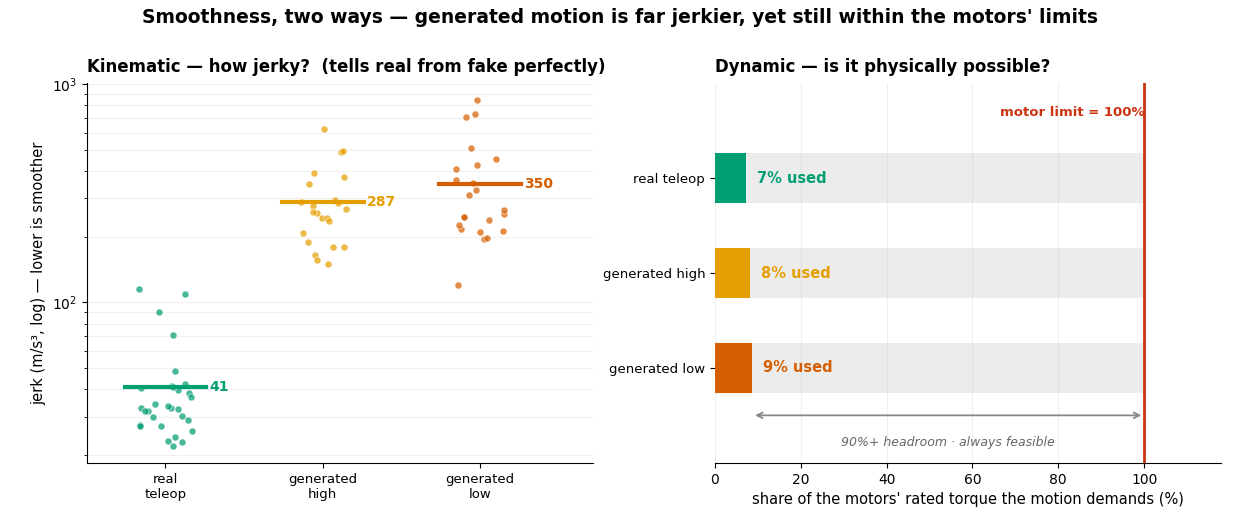
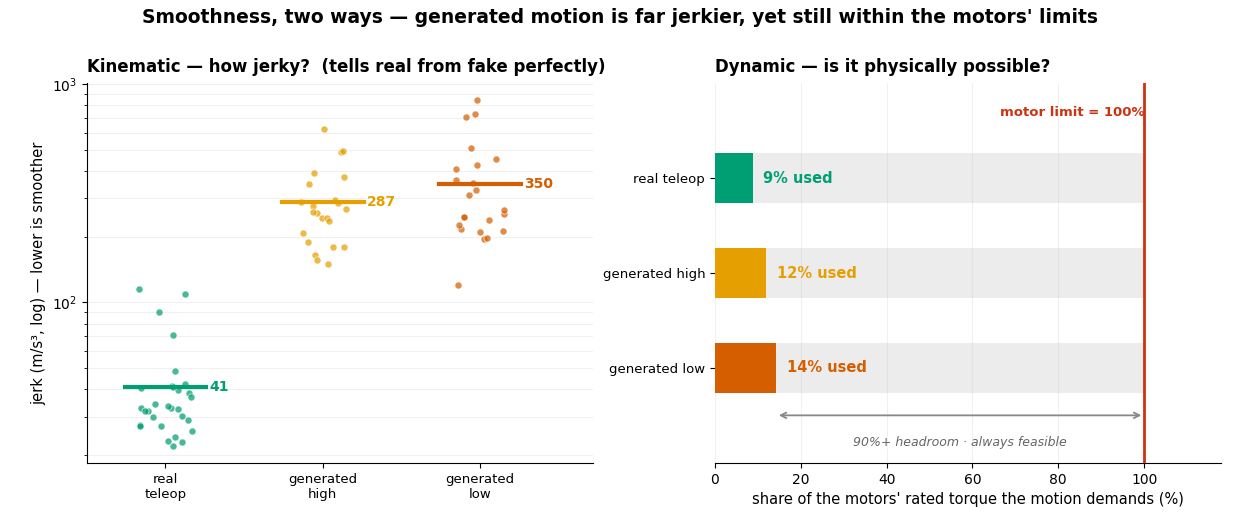
Exp7: high-vs-low same-task comparison + one consistent torque statistic
Replace the single-clip demo with a same-task high-tier vs low-tier comparison
(two videos + a trace): low tier is visibly jerkier and the torque number ranks
it above high, both feasible — showing the measurement tracks perception, not
that generation is impossible.

Fix the statistic inconsistency the review flagged: torque is now ONE definition
everywhere — the most-loaded joint per frame (envelope), robust p98. Numbers
reconcile: real ~9%, generated ~12-14%, jerkiest clip ~27% (all < 100% limit);
separation AUC rises to 0.84. Soften "perfectly" -> "cleanly (peak jerk)".
Architecture caption/stage-4 wording: geometry -> geometry & dynamics, add torque.
Drop the now-unused single-clip trace asset.

Claude-Session: https://claude.ai/code/session_01SzifmUYCQF5e864NwWcDT4

diff --git a/index.html b/index.html
@@ -84,7 +84,7 @@
   <p class="kicker">How it works</p>
   <h2>From pixels to a physical verdict, in four steps</h2>
   <p class="wide-lede">The reader is not a generic pose network bolted on after the fact &mdash; it is <b>built around the robot's own kinematic model</b>. Every output maps to a specific degree of freedom in the URDF (the left arm, the right arm, the waist), and each one is given <b>its own attention over the image</b>, so the reader looks at the body part that joint actually controls. The physics checks downstream therefore rest on a pose read the way the robot is really built.</p>
-  <figure class="fig"><img src="assets/figures/fig1_architecture.png" alt="" loading="lazy"><figcaption>The full method: an attention-based reader turns each frame into joint angles and a confidence, then those angles drive the robot&rsquo;s real CAD model, where every physical rule is a geometric measurement.<span class="howto"><b>How to read this.</b> Top half &mdash; reading the pose: a frozen vision model turns the frame into patches, then a set of learned attention maps &mdash; <b>one per robot degree of freedom, following the URDF's own left-arm / right-arm / waist layout</b> &mdash; each focus on the body part that joint controls, and two outputs emerge: the joint angles and how confident the reader is. Bottom half &mdash; checking the physics: those angles pose the robot&rsquo;s real 3-D model, and every rule (parts overlapping, balance over the feet, joint limits, limb length, smoothness) is read straight off the geometry.</span></figcaption></figure>
+  <figure class="fig"><img src="assets/figures/fig1_architecture.png" alt="" loading="lazy"><figcaption>The full method: an attention-based reader turns each frame into joint angles and a confidence, then those angles drive the robot&rsquo;s real CAD model, where every physical rule is a physical measurement on the robot itself.<span class="howto"><b>How to read this.</b> Top half &mdash; reading the pose: a frozen vision model turns the frame into patches, then a set of learned attention maps &mdash; <b>one per robot degree of freedom, following the URDF's own left-arm / right-arm / waist layout</b> &mdash; each focus on the body part that joint controls, and two outputs emerge: the joint angles and how confident the reader is. Bottom half &mdash; checking the physics: those angles pose the robot&rsquo;s real 3-D model, and every rule (parts overlapping, balance over the feet, joint limits, limb length, smoothness, and the motor torque the motion would need) is read straight off the robot's own geometry &amp; dynamics.</span></figcaption></figure>
   <div class="mediarow"><figure class="media cell"><video src="assets/videos/aux_saliency.mp4" controls muted loop playsinline preload="metadata"></video><figcaption>Where the reader looks, per degree of freedom. By design every joint &mdash; each arm joint and finger, in the robot's own URDF layout &mdash; gets its own attention map; the bright patches show which pixels the reader uses to recover that joint. Each locks onto its own hand and arm, exactly where the answer is.</figcaption></figure></div>
   <div class="stages">
     <div class="stage"><span class="snum">1</span><h4>Look at the frame</h4>
@@ -106,7 +106,8 @@
     <div class="stage"><span class="snum">4</span><h4>Rebuild the real robot</h4>
       <p>Those angles drive the robot's <b>exact 3-D model</b> (the manufacturer's CAD/URDF
       design). That gives the true position of every part in space &mdash; and once we have
-      3-D positions, the physical rules become simple geometry.</p></div>
+      3-D positions &mdash; and the model's masses &mdash; the physical rules become simple geometry
+      and dynamics.</p></div>
   </div>
 </section>
 
@@ -222,11 +223,11 @@
     <div class="exp-tag">Experiment 7 &middot; Smoothness, grounded in the hardware</div>
     <h3>The judder is real &mdash; but is it physically impossible? We can check both</h3>
     <p class="exp-setup"><b>Setup.</b> Jerk in m/s&sup3; has no natural ceiling, so &ldquo;how jerky is <em>too</em> jerky?&rdquo; has no absolute answer. So we read the same generated clips <b>two ways</b>. The <b>kinematic</b> way is the usual jerk. The <b>dynamic</b> way runs the robot's full <b>inverse dynamics</b> from its engineering model &mdash; every link's mass and inertia from the URDF &mdash; to work out the actual joint <b>torque</b> the motion would demand, and compares it against the torque the real motors are rated to deliver: a hard physical limit, in newton-metres.</p>
-    <p class="exp-res"><b>Result.</b> Both agree the motion is wrong, and together they pin down <em>how</em> wrong. Generated motion is far jerkier than real &mdash; the kinematic view separates real from generated <b>perfectly</b> (peak jerk about <b>41</b> vs <b>290&ndash;350&nbsp;m/s&sup3;</b>). But converted into torque, that same judder still asks for only about <b>8&ndash;9%</b> of the motors' rated limit (real motion sits near <b>7%</b>), and <b>never exceeds it</b>. So on this light humanoid the generators' physics failure is a <em>subtle temporal</em> one &mdash; unmistakably jerky, yet still physically executable &mdash; not a gross impossibility.</p>
-    <figure class="fig"><img src="assets/highlow_gallery/smoothness_two_ways.png" loading="lazy" alt=""><figcaption>The same generated clips measured two ways: how jerky (kinematic), and whether the motors could actually do it (dynamic).<span class="howto"><b>How to read this.</b> Each dot is one clip. <b>Left:</b> peak jerk (m/s&sup3;, log scale) &mdash; real clips sit low and tight, generated clips sit 7&ndash;9&times; higher, cleanly separated. <b>Right:</b> the peak joint torque the same motion would require, as a percent of the motor's rated limit; the red line is 100% (impossible above). Generated motion is a little higher than real but stays far under the limit &mdash; jerkier, yet still feasible.</span></figcaption></figure>
-    <p class="fig-note" style="font-weight:700;color:var(--soft-ink);margin-top:8px;">Eye and number agree — one named clip</p>
-    <figure class="media wide"><video src="assets/videos/low5_torque.mp4" controls muted loop playsinline preload="metadata"></video><figcaption>The jerkiest generated clip in the set (low__5): the recovered skeleton visibly stutters &mdash; you can <em>see</em> the judder.</figcaption></figure>
-    <figure class="fig"><img src="assets/highlow_gallery/low5_torque_trace.png" loading="lazy" alt=""><figcaption>And the torque number tracks exactly what the eye sees &mdash; this clip demands roughly 4&times; the torque of real motion.<span class="howto"><b>How to read this.</b> Peak joint torque needed at each frame, as a percent of the motor limit. The real clip (green) stays smooth near 7%; the jerkiest generated clip (orange, low__5) spikes to about 34% right where the motion stutters &mdash; the measurement follows the visible judder frame-for-frame. Yet even this worst case sits about 3&times; below the 100% motor limit, so it is jerkier but still physically executable. The point is not that generation is impossible &mdash; it is that the number and the eye agree.</span></figcaption></figure>
+    <p class="exp-res"><b>Result.</b> Both agree the motion is wrong, and together they pin down <em>how</em> wrong. Generated motion is far jerkier than real &mdash; on <em>peak jerk</em> the two sets separate cleanly (about <b>41</b> vs <b>290&ndash;350&nbsp;m/s&sup3;</b>). But converted into torque, that same judder asks for only about <b>12&ndash;14%</b> of the motors' rated limit (real motion sits near <b>9%</b>), and <b>never exceeds it</b> &mdash; even the single jerkiest clip peaks near <b>27%</b>. So on this light humanoid the generators' physics failure is a <em>subtle temporal</em> one &mdash; unmistakably jerky, yet still physically executable &mdash; not a gross impossibility.</p>
+    <figure class="fig"><img src="assets/highlow_gallery/smoothness_two_ways.png" loading="lazy" alt=""><figcaption>The same generated clips measured two ways: how jerky (kinematic), and whether the motors could actually do it (dynamic).<span class="howto"><b>How to read this.</b> Each dot is one clip. <b>Left:</b> peak jerk (m/s&sup3;, log scale) &mdash; real clips sit low and tight, generated clips sit 7&ndash;9&times; higher, cleanly separated. <b>Right:</b> the peak joint torque the same motion needs &mdash; the most-loaded joint at each frame, as a percent of the motor's rated limit (red line = 100%, impossible above). Generated sits around 12&ndash;14% versus real near 9% &mdash; clearly higher, yet far under the limit: jerkier, but still feasible.</span></figcaption></figure>
+    <p class="fig-note" style="font-weight:700;color:var(--soft-ink);margin-top:8px;">The number ranks clips the way the eye does — high vs low, same task</p>
+    <div class="mediarow"><figure class="media cell"><video src="assets/videos/high5_torque.mp4" controls muted loop playsinline preload="metadata"></video><figcaption>The same task, <b>high-tier</b> generation: the recovered motion is relatively smooth.</figcaption></figure><figure class="media cell"><video src="assets/videos/low5_torque.mp4" controls muted loop playsinline preload="metadata"></video><figcaption>The same task, <b>low-tier</b> generation: you can <em>see</em> it judder more.</figcaption></figure></div>
+    <figure class="fig"><img src="assets/highlow_gallery/highlow5_torque.png" loading="lazy" alt=""><figcaption>Two generation tiers of the very same task &mdash; and the torque number ranks them the way the eye does.<span class="howto"><b>How to read this.</b> Peak joint torque needed at each frame (the most-loaded joint), as a percent of the motor limit; the dashed line is each clip's robust peak (98th&#8209;percentile). The low tier (orange) &mdash; visibly jerkier in the video &mdash; runs consistently higher (jerk&nbsp;842, torque&nbsp;~27%) than the high tier (blue; jerk&nbsp;490, torque&nbsp;~18%). The measurement tracks what the eye sees, while both stay far below the 100% motor limit.</span></figcaption></figure>
     <p class="exp-mean"><b>What it means.</b> This is what grounding in the robot's own model buys: we can express the <em>same</em> defect in an interpretable kinematic unit <em>and</em> on a scale with a real physical ceiling. The honest reading is that generated motion is clearly jerkier but still within the motors' reach &mdash; the tell is temporal texture, not brute infeasibility. The very same dynamic ruler would fire outright the day a generator (or a heavier robot with less torque headroom) pushes a joint past its motor limit.</p>
   </article>
 